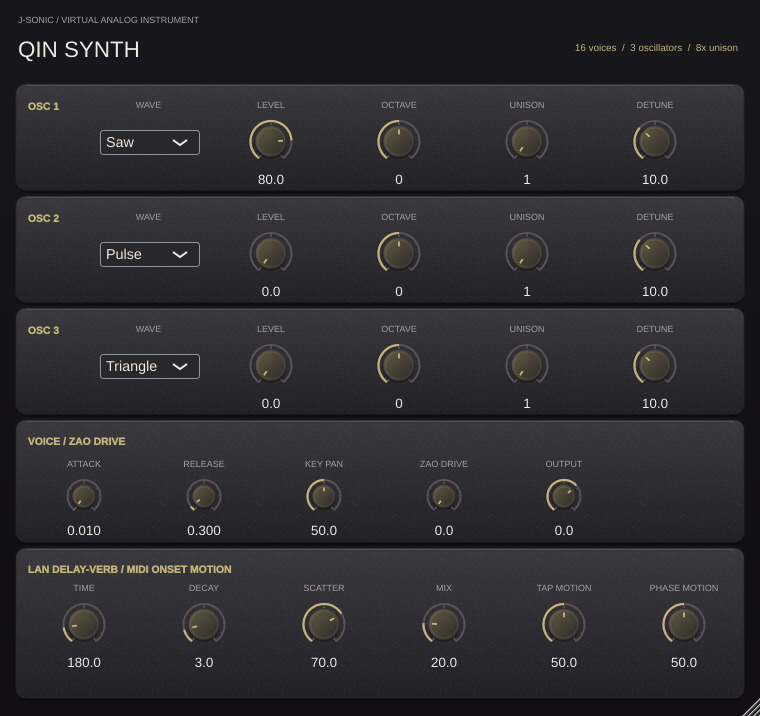
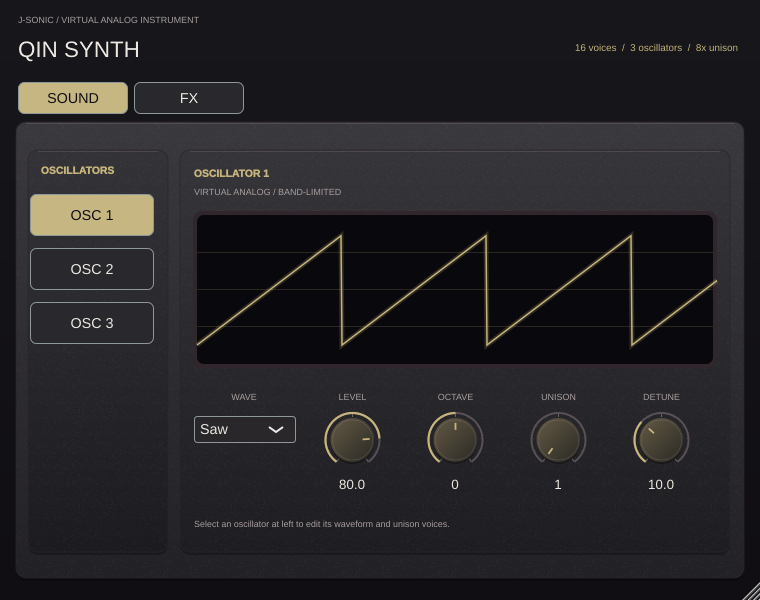
Reorganize Qin Synth editor into Sound and FX pages

diff --git a/projects/QinSynth/Source/PluginEditor.cpp b/projects/QinSynth/Source/PluginEditor.cpp
@@ -43,6 +43,37 @@ QinSynthEditor::QinSynthEditor(QinSynthProcessor& synth) : AudioProcessorEditor(
     look.dialBottomColour=juce::Colour(0xff2a2925);
     setLookAndFeel(&look);
     addAndMakeVisible(titleHint);
+    for(size_t i=0;i<pageTabs.size();++i)
+    {
+        auto& tab=pageTabs[i];
+        tab.setButtonText(i==0 ? "SOUND" : "FX");
+        tab.setName(i==0 ? "Sound page" : "FX page");
+        tab.setTooltip(i==0 ? "Shows the three oscillator tabs and their sound controls."
+                             : "Shows the voice, drive, and delay-reverb controls.");
+        tab.setClickingTogglesState(true);
+        tab.setRadioGroupId(1);
+        tab.setColour(juce::TextButton::buttonColourId,juce::Colour(0xff29272c));
+        tab.setColour(juce::TextButton::buttonOnColourId,accent);
+        tab.setColour(juce::TextButton::textColourOffId,stageStyle::foreground);
+        tab.setColour(juce::TextButton::textColourOnId,stageStyle::background);
+        tab.onClick=[this,i]{showPage(int(i));};
+        addAndMakeVisible(tab);
+    }
+    for(size_t i=0;i<oscillatorTabs.size();++i)
+    {
+        auto& tab=oscillatorTabs[i];
+        tab.setButtonText("OSC "+juce::String(int(i)+1));
+        tab.setName("Oscillator "+juce::String(int(i)+1)+" tab");
+        tab.setTooltip("Opens oscillator "+juce::String(int(i)+1)+" in the Sound editor.");
+        tab.setClickingTogglesState(true);
+        tab.setRadioGroupId(2);
+        tab.setColour(juce::TextButton::buttonColourId,juce::Colour(0xff29272c));
+        tab.setColour(juce::TextButton::buttonOnColourId,accent);
+        tab.setColour(juce::TextButton::textColourOffId,stageStyle::foreground);
+        tab.setColour(juce::TextButton::textColourOnId,stageStyle::background);
+        tab.onClick=[this,i]{showOscillator(int(i));};
+        addAndMakeVisible(tab);
+    }
     for(size_t i=0;i<sliders.size();++i)
     {
         auto& slider=sliders[i]; auto& label=labels[i];
@@ -74,36 +105,82 @@ QinSynthEditor::QinSynthEditor(QinSynthProcessor& synth) : AudioProcessorEditor(
         addAndMakeVisible(wave); addAndMakeVisible(label);
         waveAttachments[i]=std::make_unique<State::ComboBoxAttachment>(synth.parameters,
             "osc"+juce::String(int(i)+1)+"Wave",wave);
+        wave.onChange=[this]{repaint();};
     }
+    pageTabs[0].setToggleState(true,juce::dontSendNotification);
+    oscillatorTabs[0].setToggleState(true,juce::dontSendNotification);
+    updateVisibility();
     editorScaling::enable(*this,designWidth,designHeight);
     gpu.attach(*this);
+}
+void QinSynthEditor::showPage(int page)
+{
+    currentPage=juce::jlimit(0,1,page);
+    for(size_t i=0;i<pageTabs.size();++i)
+        pageTabs[i].setToggleState(int(i)==currentPage,juce::dontSendNotification);
+    updateVisibility();
+    repaint();
+}
+void QinSynthEditor::showOscillator(int oscillator)
+{
+    currentOscillator=juce::jlimit(0,2,oscillator);
+    for(size_t i=0;i<oscillatorTabs.size();++i)
+        oscillatorTabs[i].setToggleState(int(i)==currentOscillator,juce::dontSendNotification);
+    updateVisibility();
+    repaint();
+}
+void QinSynthEditor::updateVisibility()
+{
+    for(int osc=0;osc<3;++osc)
+    {
+        const bool visible=currentPage==0 && currentOscillator==osc;
+        oscillatorTabs[size_t(osc)].setVisible(currentPage==0);
+        waves[size_t(osc)].setVisible(visible);
+        waveLabels[size_t(osc)].setVisible(visible);
+        for(int control=0;control<4;++control)
+        {
+            const auto index=size_t(osc*4+control);
+            sliders[index].setVisible(visible);
+            labels[index].setVisible(visible);
+        }
+    }
+    for(size_t index=12;index<sliders.size();++index)
+    {
+        sliders[index].setVisible(currentPage==1);
+        labels[index].setVisible(currentPage==1);
+    }
 }
 void QinSynthEditor::resized()
 {
     titleHint.setBounds(18,30,360,38);
+    pageTabs[0].setBounds(18,82,110,32);
+    pageTabs[1].setBounds(134,82,110,32);
+    for(int osc=0;osc<3;++osc) oscillatorTabs[size_t(osc)].setBounds(30,194+osc*54,124,42);
     for(int osc=0;osc<3;++osc)
     {
-        const auto y=84+osc*112;
-        waveLabels[size_t(osc)].setBounds(96,y+13,105,16);
-        waves[size_t(osc)].setBounds(100,y+46,100,25);
+        waveLabels[size_t(osc)].setBounds(189,389,110,16);
+        waves[size_t(osc)].setBounds(194,416,102,27);
         for(int control=0;control<4;++control)
         {
             const auto index=size_t(osc*4+control);
-            const auto x=213+control*128;
-            labels[index].setBounds(x,y+13,116,16);
-            sliders[index].setBounds(x,y+29,116,75);
+            const auto x=303+control*103;
+            labels[index].setBounds(x,389,99,16);
+            sliders[index].setBounds(x,405,99,88);
         }
     }
     for(int index=12;index<23;++index)
     {
         const auto effect=index>=17;
         const auto column=effect ? index-17 : index-12;
-        const auto x=28+column*120, y=effect ? 580 : 456;
-        labels[size_t(index)].setBounds(x,y,112,16);
-        sliders[size_t(index)].setBounds(x,y+16,112,effect ? 75 : 67);
+        const auto x=33+column*(effect ? 116 : 138);
+        const auto y=effect ? 402 : 218;
+        labels[size_t(index)].setBounds(x,y,108,16);
+        sliders[size_t(index)].setBounds(x,y+17,108,91);
     }
     const auto scale=editorScaling::transform(*this,designWidth,designHeight);
     titleHint.setTransform(scale);
+    for(auto& tab:pageTabs) tab.setTransform(scale);
+    for(auto& tab:oscillatorTabs) tab.setTransform(scale);
     for(auto& slider:sliders) slider.setTransform(scale);
     for(auto& label:labels) label.setTransform(scale);
     for(auto& wave:waves) wave.setTransform(scale);
@@ -123,17 +200,47 @@ void QinSynthEditor::paint(juce::Graphics& graphics)
     graphics.drawText("QIN SYNTH",18,30,360,38,juce::Justification::centredLeft);
     graphics.setColour(accent); graphics.setFont(juce::FontOptions(11.f));
     graphics.drawText("16 voices  /  3 oscillators  /  8x unison",440,38,298,20,juce::Justification::centredRight);
-    for(int osc=0;osc<3;++osc)
+    if(currentPage==0)
     {
-        const auto y=84+osc*112;
-        stageStyle::drawPanel(graphics,{16.f,float(y),728.f,106.f},juce::Colour(0xff27262b));
+        stageStyle::drawPanel(graphics,{16.f,122.f,728.f,456.f},juce::Colour(0xff27262b));
+        stageStyle::drawPanel(graphics,{28.f,150.f,140.f,402.f},juce::Colour(0xff201f24));
+        stageStyle::drawPanel(graphics,{180.f,150.f,550.f,402.f},juce::Colour(0xff222126));
         graphics.setColour(accent); graphics.setFont(juce::FontOptions(12.f).withStyle("bold"));
-        graphics.drawText("OSC "+juce::String(osc+1),28,y+13,70,18,juce::Justification::centredLeft);
+        graphics.drawText("OSCILLATORS",41,160,110,20,juce::Justification::centredLeft);
+        graphics.drawText("OSCILLATOR "+juce::String(currentOscillator+1),194,163,260,20,juce::Justification::centredLeft);
+        graphics.setColour(stageStyle::secondary); graphics.setFont(juce::FontOptions(10.f));
+        graphics.drawText("VIRTUAL ANALOG / BAND-LIMITED",194,183,300,17,juce::Justification::centredLeft);
+        graphics.drawText("Select an oscillator at left to edit its waveform and unison voices.",194,514,510,20,juce::Justification::centredLeft);
+        graphics.setColour(stageStyle::grid);
+        graphics.fillRoundedRectangle(juce::Rectangle<float>(193.f,211.f,524.f,157.f),9.f);
+        graphics.setColour(stageStyle::inset);
+        graphics.fillRoundedRectangle(juce::Rectangle<float>(197.f,215.f,516.f,149.f),7.f);
+        graphics.setColour(accent.withAlpha(.18f));
+        for(int line=1;line<4;++line)
+            graphics.drawHorizontalLine(215+line*37,197.f,713.f);
+        const auto wave=waves[size_t(currentOscillator)].getSelectedId();
+        juce::Path waveform;
+        for(int point=0;point<=520;++point)
+        {
+            const auto cycle=std::fmod(point/145.f,1.f);
+            const auto shape=wave==2 ? (cycle<.5f ? 1.f : -1.f)
+                            : wave==3 ? (1.f-4.f*std::abs(cycle-.5f)) : (2.f*cycle-1.f);
+            const auto x=197.f+point, y=290.f-55.f*shape;
+            if(point==0) waveform.startNewSubPath(x,y); else waveform.lineTo(x,y);
+        }
+        graphics.setColour(accent.withAlpha(.2f)); graphics.strokePath(waveform,juce::PathStrokeType(5.f));
+        graphics.setColour(accent); graphics.strokePath(waveform,juce::PathStrokeType(1.5f));
     }
-    stageStyle::drawPanel(graphics,{16.f,420.f,728.f,122.f},juce::Colour(0xff27262b));
-    stageStyle::drawPanel(graphics,{16.f,548.f,728.f,150.f},juce::Colour(0xff27262b));
-    graphics.setColour(accent); graphics.setFont(juce::FontOptions(12.f).withStyle("bold"));
-    graphics.drawText("VOICE / ZAO DRIVE",28,431,260,20,juce::Justification::centredLeft);
-    graphics.drawText("LAN DELAY-VERB / MIDI ONSET MOTION",28,559,460,20,juce::Justification::centredLeft);
+    else
+    {
+        stageStyle::drawPanel(graphics,{16.f,122.f,728.f,204.f},juce::Colour(0xff27262b));
+        stageStyle::drawPanel(graphics,{16.f,338.f,728.f,240.f},juce::Colour(0xff27262b));
+        graphics.setColour(accent); graphics.setFont(juce::FontOptions(12.f).withStyle("bold"));
+        graphics.drawText("VOICE / ZAO DRIVE",31,143,320,20,juce::Justification::centredLeft);
+        graphics.drawText("LAN DELAY-VERB / MIDI ONSET MOTION",31,359,470,20,juce::Justification::centredLeft);
+        graphics.setColour(stageStyle::secondary); graphics.setFont(juce::FontOptions(10.f));
+        graphics.drawText("Pitch-based pan and analog output coloration",31,165,400,16,juce::Justification::centredLeft);
+        graphics.drawText("Tap and phase targets change at MIDI note-on; resonance tame stays off.",31,381,540,16,juce::Justification::centredLeft);
+    }
     graphics.restoreState();
 }

diff --git a/projects/QinSynth/Tests/ProcessorTests.cpp b/projects/QinSynth/Tests/ProcessorTests.cpp
@@ -1,4 +1,5 @@
 #include "../Source/PluginProcessor.h"
+#include "../Source/PluginEditor.h"
 #include <cmath>
 #include <iostream>
 #include <stdexcept>
@@ -10,6 +11,15 @@ struct QinSynthTestAccess
     static float tap(const QinSynthProcessor& p) { return p.onsetTap; }
     static float phase(const QinSynthProcessor& p) { return p.onsetPhase; }
     static uint32_t analysisJobs(const QinSynthProcessor& p) { return p.reverb.analysisJobs(); }
+};
+struct QinSynthEditorTestAccess
+{
+    static void oscillator(QinSynthEditor& editor,int index) { editor.showOscillator(index); }
+    static void page(QinSynthEditor& editor,int index) { editor.showPage(index); }
+    static bool oscillatorVisible(const QinSynthEditor& editor,int index)
+    { return editor.waves[size_t(index)].isVisible() && editor.sliders[size_t(index*4)].isVisible(); }
+    static bool fxVisible(const QinSynthEditor& editor)
+    { return editor.sliders[12].isVisible() && editor.sliders[22].isVisible(); }
 };
 static void set(QinSynthProcessor& processor,const char* id,float value)
 {
@@ -109,17 +119,34 @@ int main(int argc,char** argv)
             }
             if(tailPower<1.e-6) throw std::runtime_error("Lan delay-reverb must retain an audible tail after note silence");
         }
-        if(argc>1)
         {
             QinSynthProcessor preview;
-            std::unique_ptr<juce::AudioProcessorEditor> editor(preview.createEditor());
-            const auto image=editor->createComponentSnapshot(editor->getLocalBounds());
-            const juce::File file(argv[1]);
-            file.deleteFile();
-            juce::FileOutputStream stream{file};
-            juce::PNGImageFormat png;
-            if(!stream.openedOk() || !png.writeImageToStream(image,stream))
-                throw std::runtime_error("Qin UI preview could not be saved");
+            QinSynthEditor editor(preview);
+            if(!QinSynthEditorTestAccess::oscillatorVisible(editor,0)
+               || QinSynthEditorTestAccess::oscillatorVisible(editor,1)
+               || QinSynthEditorTestAccess::fxVisible(editor))
+                throw std::runtime_error("Sound page must show only the selected oscillator");
+            QinSynthEditorTestAccess::oscillator(editor,2);
+            if(!QinSynthEditorTestAccess::oscillatorVisible(editor,2)
+               || QinSynthEditorTestAccess::oscillatorVisible(editor,0))
+                throw std::runtime_error("Oscillator tabs must change the visible Sound controls");
+            QinSynthEditorTestAccess::oscillator(editor,0);
+            const auto save=[&editor](const char* name)
+            {
+                const auto image=editor.createComponentSnapshot(editor.getLocalBounds());
+                const juce::File file(name);
+                file.deleteFile();
+                juce::FileOutputStream stream{file};
+                juce::PNGImageFormat png;
+                if(!stream.openedOk() || !png.writeImageToStream(image,stream))
+                    throw std::runtime_error("Qin UI preview could not be saved");
+            };
+            if(argc>1) save(argv[1]);
+            QinSynthEditorTestAccess::page(editor,1);
+            if(!QinSynthEditorTestAccess::fxVisible(editor)
+               || QinSynthEditorTestAccess::oscillatorVisible(editor,0))
+                throw std::runtime_error("FX page must show voice and delay-verb without oscillator controls");
+            if(argc>2) save(argv[2]);
         }
         std::cout<<"Qin Synth processor checks passed\n";
         return 0;

diff --git a/projects/QinSynth/Source/PluginEditor.h b/projects/QinSynth/Source/PluginEditor.h
@@ -13,11 +13,18 @@ public:
     void paint(juce::Graphics&) override;
     void resized() override;
 private:
-    static constexpr int designWidth=760, designHeight=716;
+    friend struct QinSynthEditorTestAccess;
+    static constexpr int designWidth=760, designHeight=600;
+    void showPage(int page);
+    void showOscillator(int oscillator);
+    void updateVisibility();
+    int currentPage=0, currentOscillator=0;
     StageLookAndFeel look;
     pluginGpu::Renderer gpu;
     juce::TooltipWindow tooltipWindow {this};
     editorTooltips::TitleHint titleHint {JucePlugin_VersionString};
+    std::array<juce::TextButton,2> pageTabs;
+    std::array<juce::TextButton,3> oscillatorTabs;
     std::array<juce::Slider,23> sliders;
     std::array<juce::Label,23> labels;
     std::array<juce::ComboBox,3> waves;

diff --git a/projects/QinSynth/README.md b/projects/QinSynth/README.md
@@ -2,7 +2,11 @@
 
 Qin Synth is a stereo MIDI instrument with 16-note polyphony, three virtual-analog oscillators per note, and up to eight unison copies per oscillator. It is version 0.7.5 in the J-Sonic suite.
 
-![Qin Synth editor with three oscillator rows, voice and Zao drive controls, and MIDI-steered Lan delay-reverb controls](Previews/qin-synth.png)
+![Qin Synth Sound page with left-hand oscillator tabs and a larger waveform editor](Previews/qin-synth.png)
+
+![Qin Synth FX page with voice, Zao drive, and MIDI-steered Lan delay-reverb controls](Previews/qin-synth-fx.png)
+
+The **Sound** tab puts oscillator selection on the left and expands the selected oscillator's waveform and controls on the right. The **FX** tab shows the Voice, Zao Drive, and Lan Delay-Verb sections. Every parameter remains available to host automation on either page.
 
 Each oscillator has a band-limited saw, pulse, or triangle waveform, plus level, octave, unison count, and detune controls. Unison copies spread gently across stereo. Key Pan maps lower MIDI notes left and higher notes right, as in a piano-key recording. Attack and Release control the voice amplitude. New notes take a free voice first, then steal a released or oldest voice when all 16 are occupied. Sustain pedal (MIDI CC64), note-off, all-notes-off, and all-sound-off are supported.
 
@@ -17,4 +21,4 @@ cmake -S projects/QinSynth -B build/qin -DCMAKE_BUILD_TYPE=Release
 cmake --build build/qin --target QinSynthTests QinSynth_VST3
 ```
 
-The tests cover MIDI sample offsets, the 16-voice limit, three oscillators at eightfold unison, key-based stereo panning, release, Zao drive, Lan's delay tail, and the MIDI-only reverb steering path.
+The tests cover MIDI sample offsets, the 16-voice limit, three oscillators at eightfold unison, key-based stereo panning, release, Zao drive, Lan's delay tail, the MIDI-only reverb steering path, and both editor tabs.

diff --git a/README.md b/README.md
@@ -191,7 +191,7 @@ input, generated delta, and resulting spectra.
 
 ![Qin Synth with three virtual-analog oscillator rows, key pan, Zao drive, and MIDI-steered Lan delay-reverb](projects/QinSynth/Previews/qin-synth.png)
 
-Play up to 16 notes with three virtual-analog oscillators per note. Each oscillator offers saw, pulse, and triangle waves with up to eight detuned unison copies. **Key Pan** spreads notes left to right by MIDI pitch. Zao's op-amp feedback drive and Lan's delay-reverb shape the output; MIDI note-ons steer the reverb's tap and phase motion without running Lan's resonance tamer.
+Play up to 16 notes with three virtual-analog oscillators per note. The **Sound** page has left-hand oscillator tabs and a larger editor for each oscillator's saw, pulse, or triangle wave and eightfold unison. The **FX** page holds **Key Pan**, Zao's op-amp feedback drive, and Lan's delay-reverb; MIDI note-ons steer its tap and phase motion without running Lan's resonance tamer.
 
 [Controls and signal path](projects/QinSynth/README.md).
 

diff --git a/projects/QinSynth/TOOLTIPS.md b/projects/QinSynth/TOOLTIPS.md
@@ -3,6 +3,11 @@
 | Control | Hint |
 | --- | --- |
 | Plugin title | Developer: J-Sonic Team; Year: 2026; Version: 0.7.5 |
+| Sound tab | Shows the three oscillator tabs and their sound controls. |
+| FX tab | Shows the voice, drive, and delay-reverb controls. |
+| Osc 1 tab | Opens oscillator 1 in the Sound editor. |
+| Osc 2 tab | Opens oscillator 2 in the Sound editor. |
+| Osc 3 tab | Opens oscillator 3 in the Sound editor. |
 | Osc 1 Wave | Chooses the first oscillator's band-limited virtual-analog waveform. |
 | Osc 1 Level | Sets the first oscillator's level. |
 | Osc 1 Octave | Moves the first oscillator by whole octaves. |
